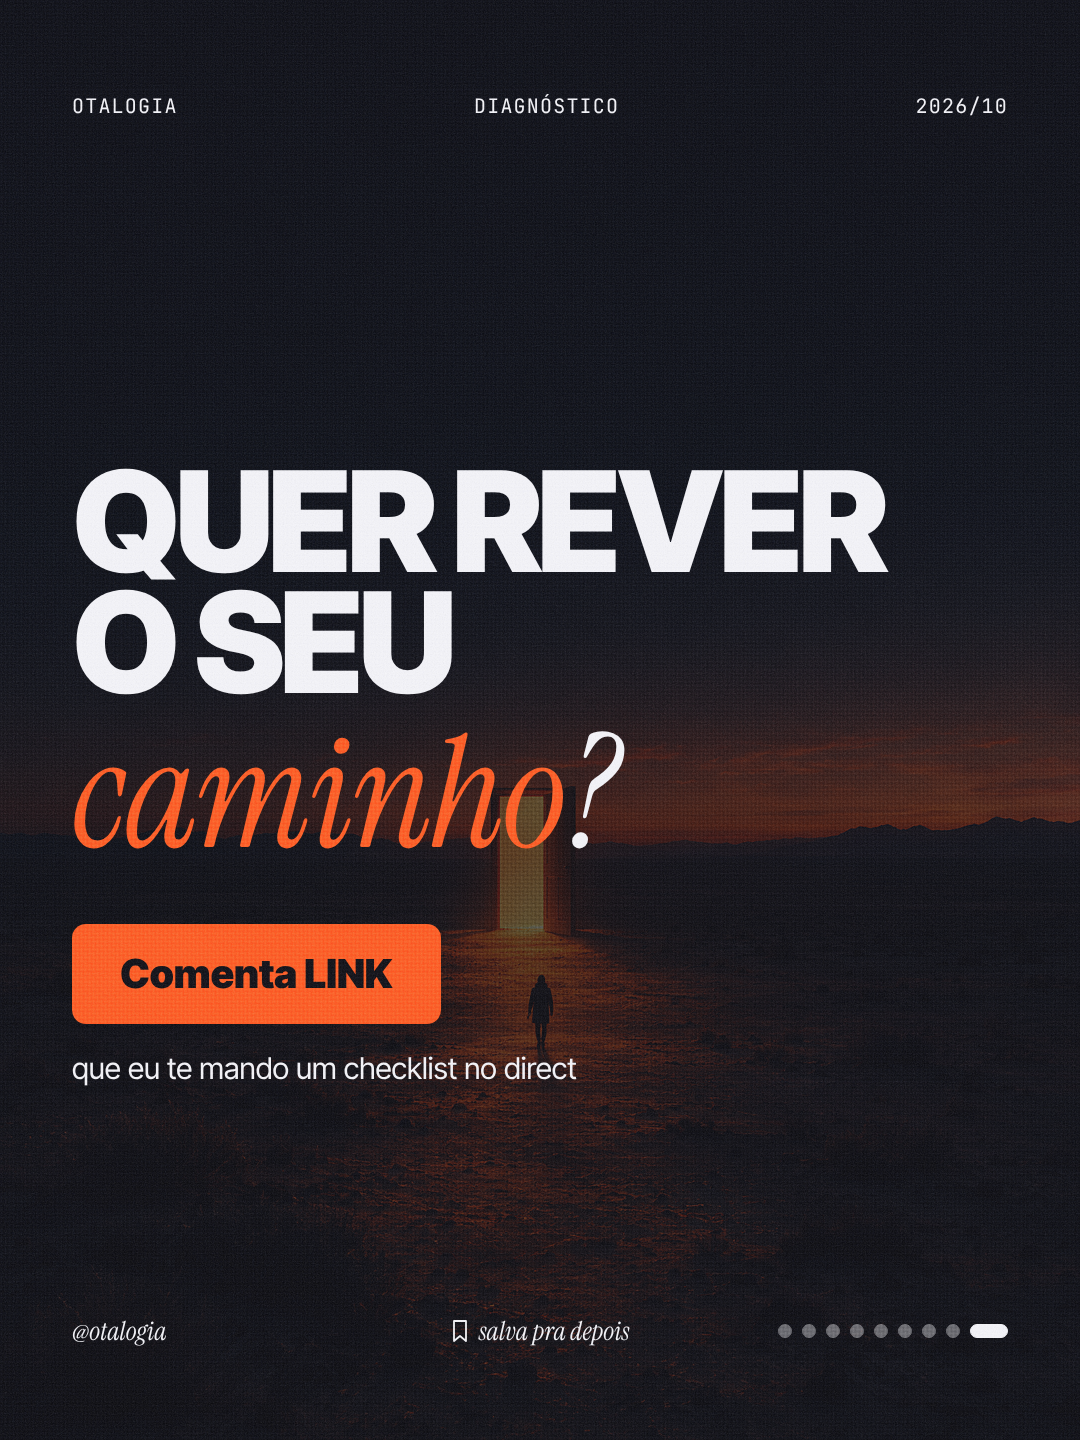
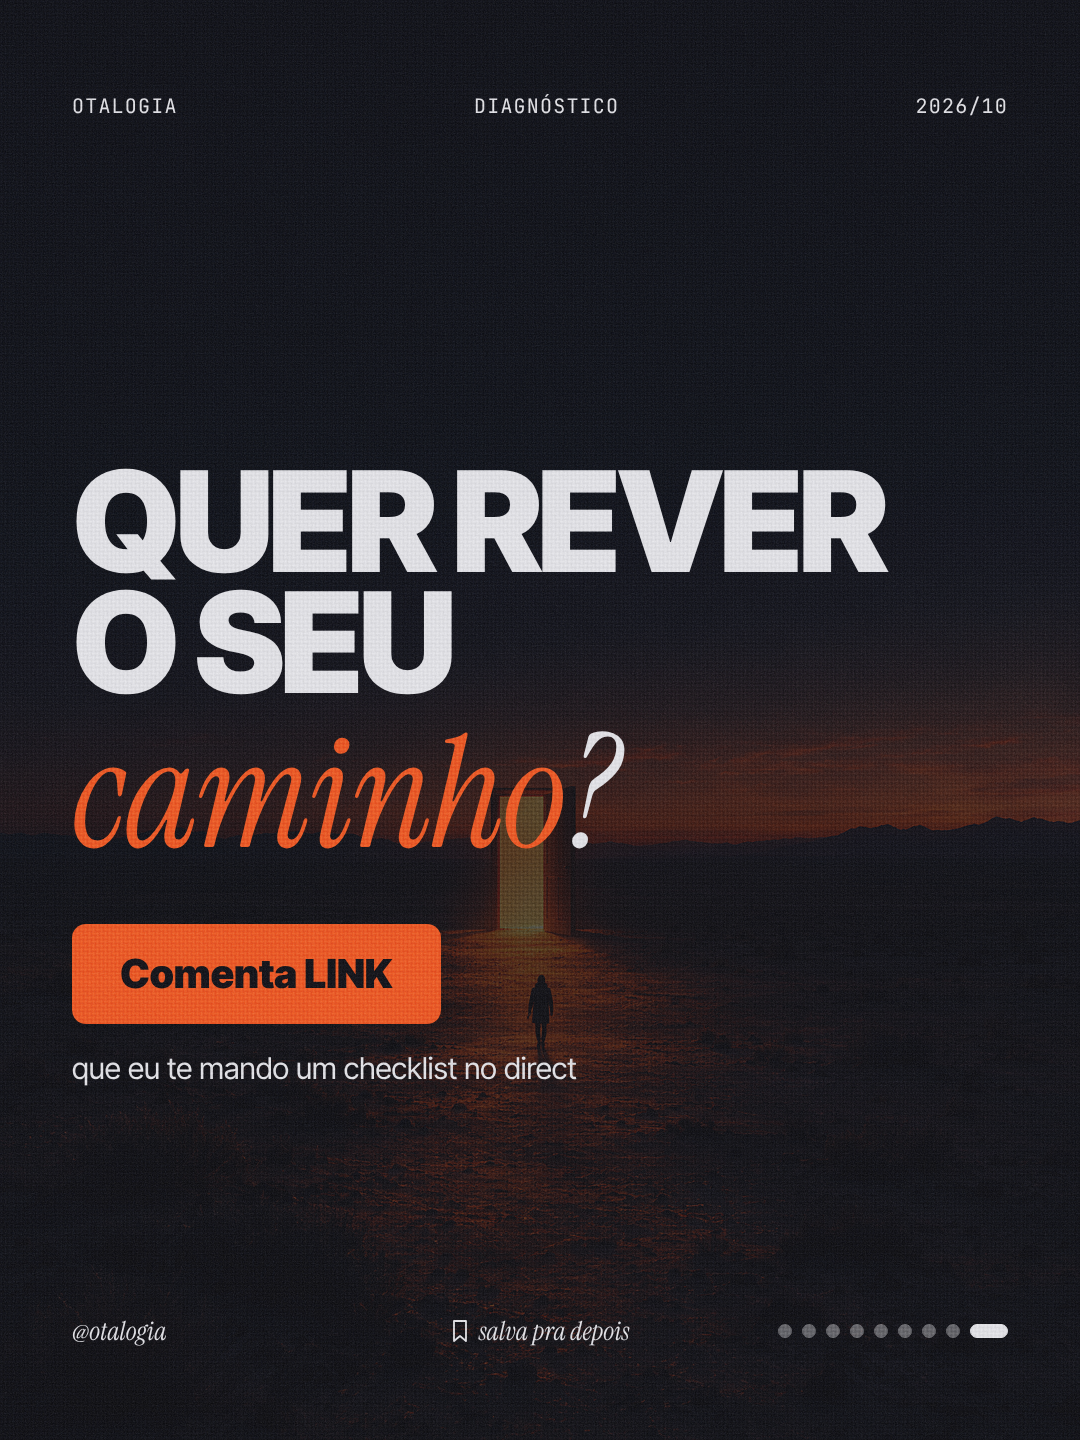
feat(motor): tecido do CTA também nas letras (fios em multiply 16%)
Claude-Session: https://claude.ai/code/session_012KyAE6tAMb32gBy6Q61w6r

diff --git a/motor/carrossel.js b/motor/carrossel.js
@@ -202,8 +202,8 @@
     var c = s.cta ? '<div class="cta"><span class="pill">' + marcar(s.cta.acao) + '</span><div class="txt">' + marcar(s.cta.texto || '') + '</div></div>' : '';
     var bg = s.imagem === undefined ? '' : '<div class="photo"' + (s.imagem ? ' style="background-image:url(\'' + esc(s.imagem) + '\')">' : '>' + SVG_FOTO) + '</div><div class="veu"></div>';
     // T4 camadas: com `recorte`, o sujeito fica na frente do texto e fora do véu (aparece inteiro)
-    // tecido no T4 (CTA): padrão ligado, o mesmo do hook ("tecido": false desliga)
-    return bg + '<div class="content">' + texto(s) + corpo(s) + c + '</div>' + recorteDiv(s) + (s.tecido === false ? '' : '<div class="tex-pano"></div>');
+    // tecido no T4 (CTA): padrão ligado, o mesmo do hook + fios nas letras ("tecido": false desliga)
+    return bg + '<div class="content">' + texto(s) + corpo(s) + c + '</div>' + recorteDiv(s) + (s.tecido === false ? '' : '<div class="tex-pano"></div><div class="tex-pano-fio"></div>');
   }
 
   function montarSlide(s, i, total, data) {

diff --git a/motor/carrossel.css b/motor/carrossel.css
@@ -206,6 +206,8 @@ body.single #carrossel { padding: 0; gap: 0; display: block; }
 .t2 .dobra { display: none; }
 /* T1b: trama de tecido sobre tudo (foto, título e recorte), como impresso em pano */
 .tex-pano { z-index: 30; background-image: url('assets/pano.png'); mix-blend-mode: soft-light; opacity: var(--tex-pano, .55); }
+/* T4 (CTA): a mesma trama também nas letras: multiply leve marca os fios no branco (soft-light não muda o branco) */
+.tex-pano-fio { position: absolute; inset: 0; pointer-events: none; z-index: 31; background: url('assets/pano.png') 0 0 / 100% 100%; mix-blend-mode: multiply; opacity: var(--tex-pano-fio, .16); }
 /* T4 camadas: sujeito recortado acima do texto e do véu */
 .t4.camadas .recorte { position: absolute; inset: 0; z-index: 12; background-size: cover; background-position: center; pointer-events: none; }
 /* T4 camadas: sujeito no terço de cima (prompt/corte), texto embaixo dele — nunca um cobrindo o outro */

diff --git a/design-system/templates/templates.md b/design-system/templates/templates.md
@@ -75,7 +75,7 @@ Prova, números, processo, listas.
 - Fundo: **foto escurecida 70% (obrigatória)**: sangrada, com véu ink `#0B0B12` chapado a 70% (sem gradiente) e grão por cima; o resto do layout é o mesmo. `imagem: null` usa o placeholder de crepúsculo sob o mesmo véu, com aviso.
 - Headline de convite com a dupla display + serifada laranja.
 - Pill CTA: fundo laranja, texto ink, Inter Tight 900 30px, cantos de 14px. Ação de palavra-comentário ("Comenta EDITAR que eu te mando…") ou salvar/compartilhar.
-- Trama de tecido por cima de tudo (foto e texto), a mesma do hook (`motor/assets/pano.png`, soft-light 55%): padrão ligado no T4, `"tecido": false` desliga (aprovado 2026-10-08).
+- Trama de tecido por cima de tudo, a mesma do hook (`motor/assets/pano.png`, soft-light 55%), mais os fios em multiply 16% (`.tex-pano-fio`) para a trama marcar também as letras: padrão ligado no T4, `"tecido": false` desliga (aprovado 2026-10-08).
 
 ## Arco do carrossel (padrão 7-9 slides)
 
